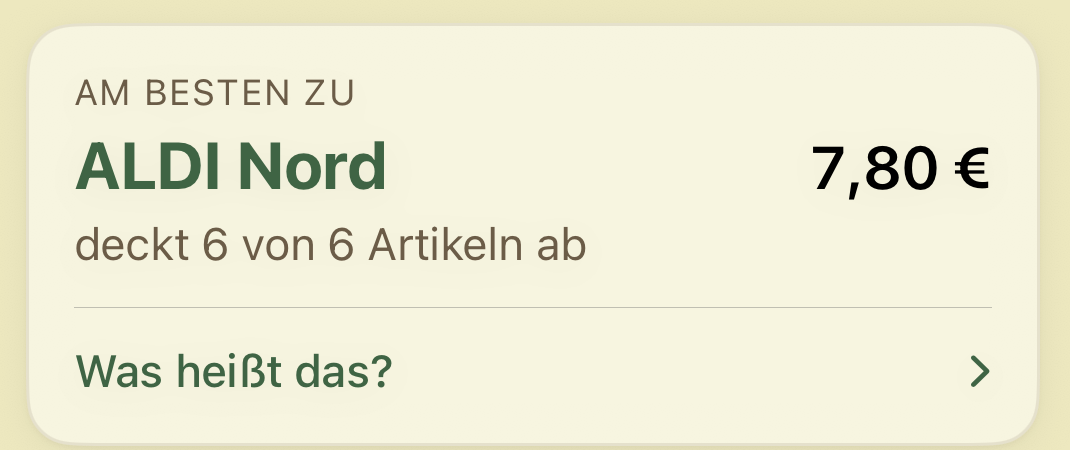
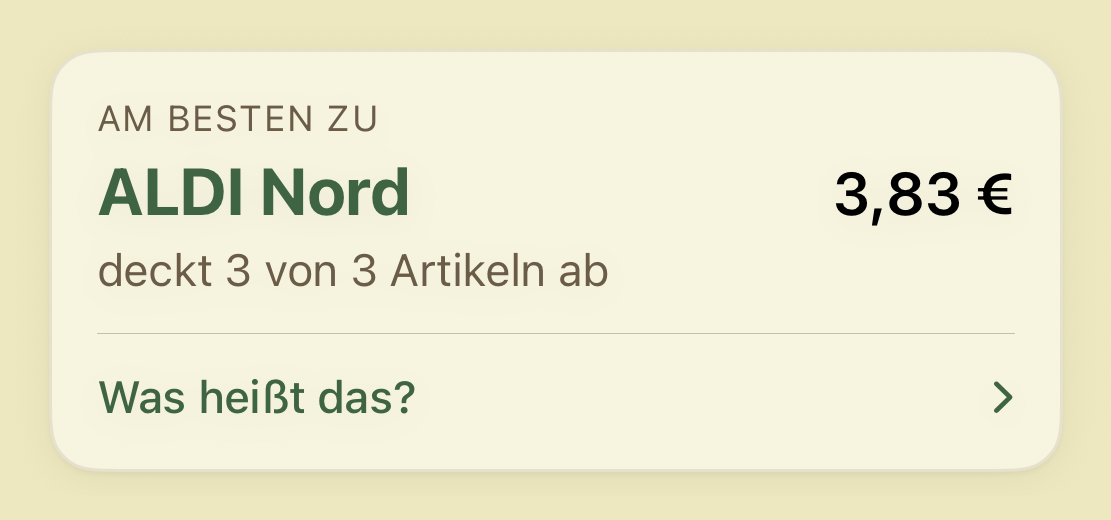
README: zwei vollstaendige Karten mit gleichen Raendern statt Screenshot-Schnipseln

Changed region(s): [[0.0, 0.0311, 0.9869, 0.9956], [0.7402, 0.3111, 0.9252, 0.4356]]

diff --git a/README.md b/README.md
@@ -9,7 +9,7 @@
 <p align="center"><sub>iOS 17+ · SwiftUI, no third-party dependencies · <a href="LICENSE">MIT</a></sub></p>
 
 <p align="center">
-  <img src="assets/result-card.png" width="600" alt="Am besten zu ALDI Nord, 7,80 Euro, deckt 6 von 6 Artikeln ab">
+  <img src="assets/result-card.png" width="600" alt="Am besten zu ALDI Nord, 3,83 Euro, deckt 3 von 3 Artikeln ab">
 </p>
 
 Every German supermarket publishes a weekly leaflet, and comparing them by hand is
@@ -18,9 +18,8 @@ you've forgotten what Kaufland wanted for butter. So: type what you need, pick t
 branches you'd actually drive to, and Le Chariot names the single shop that covers the
 most of your list for the least money.
 
-That card is a real run in Dresden, not a mockup. Six items, ALDI Nord took all six for
-7,80 € — including a Haferdrink at −30 % I wasn't looking for. Penny won an earlier
-round on Sachsenmilch at 0,49 €.
+That card is a real run in Dresden, not a mockup — seven branches selected around 01219,
+three things on the list, ALDI Nord taking all three for 3,83 €.
 
 The UI is German and the offers are German. Nothing here is portable to another country,
 and I'm not pretending otherwise.
@@ -28,7 +27,7 @@ and I'm not pretending otherwise.
 ## The interesting part is the matching
 
 <p align="center">
-  <img src="assets/match-detail.png" width="560" alt="Milch matched to a Haferdrink at minus 30 percent; Kaffee matched to an Iced Coffee">
+  <img src="assets/list-card.png" width="520" alt="Milch matched to a Haferdrink at minus 30 percent, Kaffee to an Iced Coffee, Brot to Rosenbroetchen at minus 36 percent">
 </p>
 
 You type "Milch". The offer is called "SACHSEN MILCH Buttermilch 500 g". Getting from one
@@ -43,16 +42,12 @@ to the other is where the actual work lives, and it runs in two stages
    during import. The backend dictionary already blocks false composites, so Tomatenmark
    carries no `tomaten` tag and won't turn up when you ask for tomatoes.
 
-There's a feedback path in the app for when a match is wrong
-([`MatchFeedbackStore`](ios/LeChariot/Stores/MatchFeedbackStore.swift)); I go through the
-rejections periodically and fold them back into the dictionary. It is still wrong
-sometimes.
+"Brot" landing on Rosenbrötchen above is stage two doing its job. It is still wrong
+sometimes — there's a feedback path in the app for bad matches
+([`MatchFeedbackStore`](ios/LeChariot/Stores/MatchFeedbackStore.swift)), and I go through
+the rejections periodically and fold them back into the dictionary.
 
 ## Where the data comes from
-
-<p align="center">
-  <img src="assets/top-deals.png" width="520" alt="Top deals of the week: two Denver smartwatches at minus 74 percent, an air fryer at minus 72 percent">
-</p>
 
 Offers are scraped by the Rust backend in
 [lechariot-backend](https://github.com/Scxttk/lechariot-backend) and pushed to Supabase;
